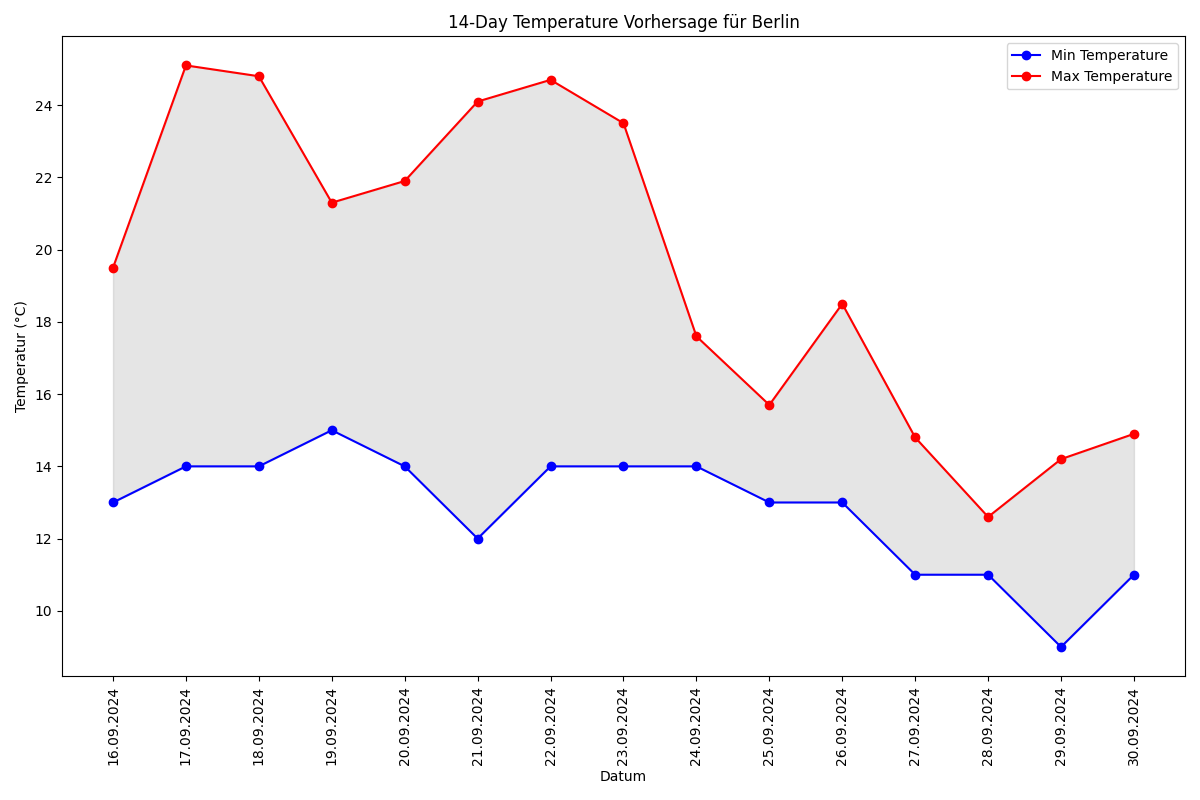
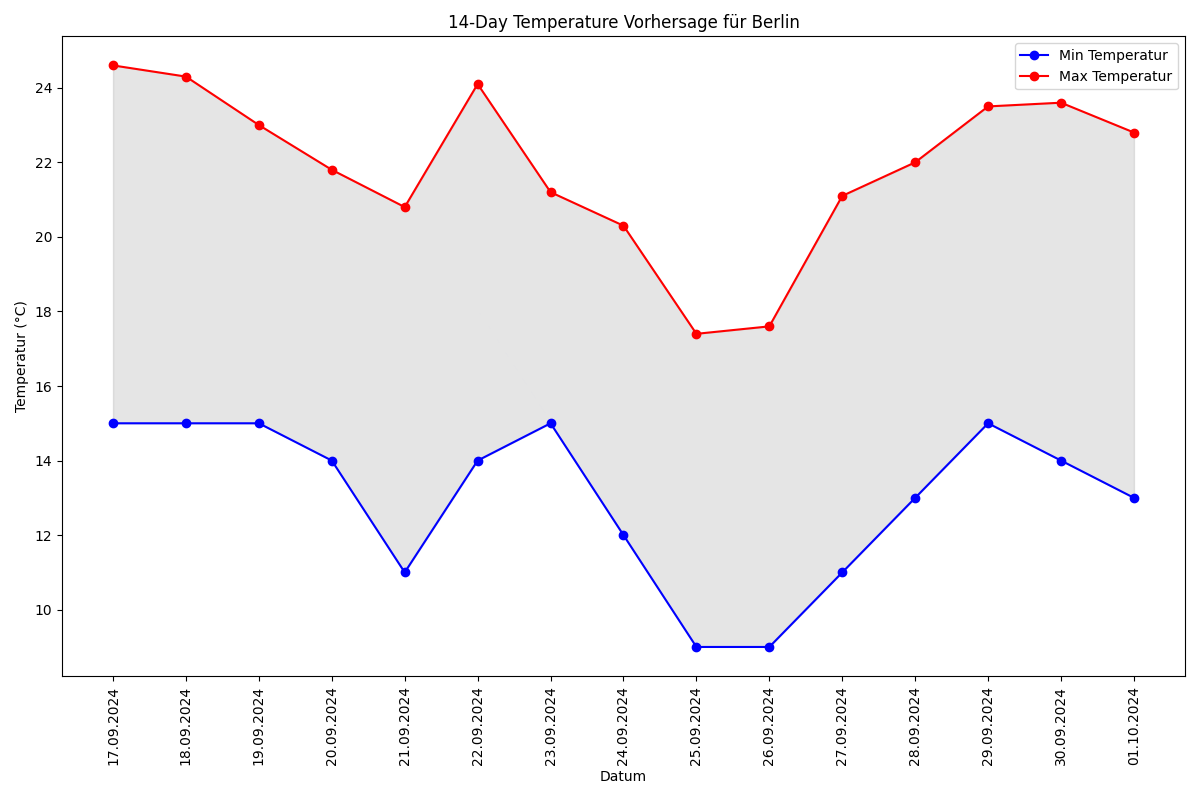
function to create a .env file if exe is running the first time and after that use the env-file to run the application in a frozen system

diff --git a/index.html b/index.html
@@ -7,65 +7,65 @@
         </head>
         <body>
             <h1>14-Day Weather Forecast for Berlin</h1>
-            <pre>Datum: 16.09.2024 
-Min-Temp: 13.0°C, Max-Temp: 19.5°C 
-Regenwahrscheinlichkeit: 3.603%, Windgeschwindigkeit: 27.7 km/h
-
-Datum: 17.09.2024 
-Min-Temp: 14.4°C, Max-Temp: 25.1°C 
-Regenwahrscheinlichkeit: 0.0%, Windgeschwindigkeit: 13.3 km/h
+            <pre>Datum: 17.09.2024 
+Min-Temp: 15.0°C, Max-Temp: 24.6°C 
+Regenwahrscheinlichkeit: 0.0%, Windgeschwindigkeit: 20.5 km/h
 
 Datum: 18.09.2024 
-Min-Temp: 14.4°C, Max-Temp: 24.8°C 
-Regenwahrscheinlichkeit: 0.0%, Windgeschwindigkeit: 13.0 km/h
-
-Datum: 19.09.2024 
-Min-Temp: 15.4°C, Max-Temp: 21.3°C 
-Regenwahrscheinlichkeit: 0.1%, Windgeschwindigkeit: 13.7 km/h
-
-Datum: 20.09.2024 
-Min-Temp: 14.6°C, Max-Temp: 21.9°C 
-Regenwahrscheinlichkeit: 0.0%, Windgeschwindigkeit: 15.1 km/h
-
-Datum: 21.09.2024 
-Min-Temp: 12.5°C, Max-Temp: 24.1°C 
-Regenwahrscheinlichkeit: 0.0%, Windgeschwindigkeit: 17.6 km/h
-
-Datum: 22.09.2024 
-Min-Temp: 14.6°C, Max-Temp: 24.7°C 
-Regenwahrscheinlichkeit: 0.0%, Windgeschwindigkeit: 16.2 km/h
-
-Datum: 23.09.2024 
-Min-Temp: 14.8°C, Max-Temp: 23.5°C 
+Min-Temp: 15.2°C, Max-Temp: 24.3°C 
 Regenwahrscheinlichkeit: 0.0%, Windgeschwindigkeit: 11.5 km/h
 
+Datum: 19.09.2024 
+Min-Temp: 15.5°C, Max-Temp: 23.0°C 
+Regenwahrscheinlichkeit: 0.0%, Windgeschwindigkeit: 12.2 km/h
+
+Datum: 20.09.2024 
+Min-Temp: 14.3°C, Max-Temp: 21.8°C 
+Regenwahrscheinlichkeit: 0.0%, Windgeschwindigkeit: 14.4 km/h
+
+Datum: 21.09.2024 
+Min-Temp: 11.8°C, Max-Temp: 20.8°C 
+Regenwahrscheinlichkeit: 0.0%, Windgeschwindigkeit: 10.1 km/h
+
+Datum: 22.09.2024 
+Min-Temp: 14.7°C, Max-Temp: 24.1°C 
+Regenwahrscheinlichkeit: 0.0%, Windgeschwindigkeit: 12.6 km/h
+
+Datum: 23.09.2024 
+Min-Temp: 15.2°C, Max-Temp: 21.2°C 
+Regenwahrscheinlichkeit: 0.4%, Windgeschwindigkeit: 8.3 km/h
+
 Datum: 24.09.2024 
-Min-Temp: 14.6°C, Max-Temp: 17.6°C 
-Regenwahrscheinlichkeit: 2.5%, Windgeschwindigkeit: 15.8 km/h
+Min-Temp: 12.1°C, Max-Temp: 20.3°C 
+Regenwahrscheinlichkeit: 1.1%, Windgeschwindigkeit: 23.0 km/h
 
 Datum: 25.09.2024 
-Min-Temp: 13.3°C, Max-Temp: 15.7°C 
-Regenwahrscheinlichkeit: 5.6%, Windgeschwindigkeit: 27.4 km/h
+Min-Temp: 9.5°C, Max-Temp: 17.4°C 
+Regenwahrscheinlichkeit: 0.0%, Windgeschwindigkeit: 20.9 km/h
 
 Datum: 26.09.2024 
-Min-Temp: 13.8°C, Max-Temp: 18.5°C 
-Regenwahrscheinlichkeit: 1.0%, Windgeschwindigkeit: 32.0 km/h
+Min-Temp: 9.8°C, Max-Temp: 17.6°C 
+Regenwahrscheinlichkeit: 0.0%, Windgeschwindigkeit: 10.1 km/h
 
 Datum: 27.09.2024 
-Min-Temp: 11.6°C, Max-Temp: 14.8°C 
-Regenwahrscheinlichkeit: 2.4%, Windgeschwindigkeit: 26.9 km/h
+Min-Temp: 11.2°C, Max-Temp: 21.1°C 
+Regenwahrscheinlichkeit: 0.0%, Windgeschwindigkeit: 8.6 km/h
 
 Datum: 28.09.2024 
-Min-Temp: 11.1°C, Max-Temp: 12.6°C 
-Regenwahrscheinlichkeit: 6.0%, Windgeschwindigkeit: 20.8 km/h
+Min-Temp: 13.4°C, Max-Temp: 22.0°C 
+Regenwahrscheinlichkeit: 0.0%, Windgeschwindigkeit: 6.8 km/h
 
 Datum: 29.09.2024 
-Min-Temp: 9.7°C, Max-Temp: 14.2°C 
-Regenwahrscheinlichkeit: 3.6%, Windgeschwindigkeit: 21.6 km/h
+Min-Temp: 15.4°C, Max-Temp: 23.5°C 
+Regenwahrscheinlichkeit: 0.0%, Windgeschwindigkeit: 14.8 km/h
 
 Datum: 30.09.2024 
-Min-Temp: 11.4°C, Max-Temp: 14.9°C 
-Regenwahrscheinlichkeit: 6.7%, Windgeschwindigkeit: 35.6 km/h
+Min-Temp: 14.2°C, Max-Temp: 23.6°C 
+Regenwahrscheinlichkeit: 0.0%, Windgeschwindigkeit: 19.1 km/h
+
+Datum: 01.10.2024 
+Min-Temp: 13.4°C, Max-Temp: 22.8°C 
+Regenwahrscheinlichkeit: 0.0%, Windgeschwindigkeit: 16.9 km/h
 
 </pre>
             <h2>Temperature Chart</h2>

diff --git a/main.py b/main.py
@@ -1,5 +1,6 @@
 import os
 import sys
+from dotenv import load_dotenv
 
 def main():
     # Import within the function to avoid unnecessary imports if config.py does not exist
@@ -13,31 +14,72 @@ def main():
     if not location:
         location = 'Berlin'
 
-    # Enter the recipient's email address or leave empty if you dont want to send an email
-    mail_to= input ("Enter your Email (press Enter if you dont want to send an email): ")
-   
+    # Enter the recipient's email address or leave empty if you don't want to send an email
+    mail_to = input("Enter your Email (press Enter if you don't want to send an email): ")
+
     # Start the function to fetch the weather forecast for the specified location
     forecast = get_weather_forecast(location)
     temperatur_chart = create_temperatur_chart(forecast, location)
-    
+
     # Save/Display data in 3 different ways
-    save_forecast_as_html(forecast, location, temperatur_chart) # Save forecast in an HTML-file
-    print(f'14-Tage Wettervorhersage für {location} \n {forecast}') # Print forecast in the console
+    save_forecast_as_html(forecast, location, temperatur_chart)  # Save forecast in an HTML file
+    print(f'14-Tage Wettervorhersage für {location} \n {forecast}')  # Print forecast in the console
 
     if mail_to and '@' in mail_to:
-        send_forecast_email(forecast, location, mail_to, temperatur_chart) # Send forecast as an e-mail
+        send_forecast_email(forecast, location, mail_to, temperatur_chart)  # Send forecast as an e-mail
+
+
+def load_env_variables():
+    """
+    Load environment variables either from .env or directly from environment variables.
+    """
+    # Path where the .env file should be
+    exe_dir = os.path.dirname(sys.executable) if getattr(sys, 'frozen', False) else os.getcwd()
+    env_file_path = os.path.join(exe_dir, '.env')
+
+    # Load environment variables from the .env file
+    if os.path.exists(env_file_path):
+        load_dotenv(env_file_path)
+
+    # Fetch the environment variables
+    WEATHER_API_KEY = os.getenv('WEATHER_API_KEY')
+    EMAIL_FROM = os.getenv('EMAIL_FROM')
+    APP_PASSWORD = os.getenv('APP_PASSWORD')
+
+    return WEATHER_API_KEY, EMAIL_FROM, APP_PASSWORD
+
+
+def prompt_and_save_env_variables():
+    """
+    Prompt user for missing environment variables and save them in a .env file.
+    """
+    exe_dir = os.path.dirname(sys.executable) if getattr(sys, 'frozen', False) else os.getcwd()
+    env_file_path = os.path.join(exe_dir, '.env')
+
+    # Prompt for missing environment variables
+    WEATHER_API_KEY = input("Enter your WEATHER_API_KEY: ")
+    EMAIL_FROM = input("Enter your EMAIL_FROM (e.g., your_email@example.com): ")
+    APP_PASSWORD = input("Enter your APP_PASSWORD: ")
+
+    # Save the environment variables to a .env file
+    with open(env_file_path, 'w') as env_file:
+        env_file.write(f"WEATHER_API_KEY={WEATHER_API_KEY}\n")
+        env_file.write(f"EMAIL_FROM={EMAIL_FROM}\n")
+        env_file.write(f"APP_PASSWORD={APP_PASSWORD}\n")
+
+    print(f"Environment variables saved in '{env_file_path}'. Please restart the application.")
 
 if __name__ == "__main__":
 # Check if running in a frozen environment
     if getattr(sys, 'frozen', False):
-       # Get environment variables in frozen environment
-       WEATHER_API_KEY = os.environ.get('WEATHER_API_KEY', None)
-       EMAIL_FROM = os.environ.get('EMAIL_FROM', None)
-       APP_PASSWORD = os.environ.get('APP_PASSWORD', None)
+        # Load environment variables
+        WEATHER_API_KEY, EMAIL_FROM, APP_PASSWORD = load_env_variables()
 
-       if not WEATHER_API_KEY or not EMAIL_FROM or not APP_PASSWORD:
-           print("Error: Missing at least one environment variable")
-           sys.exit(1) # If missing some variable, exit the function
+        # If any of the environment variables are missing, prompt the user to enter them and save them
+        if not WEATHER_API_KEY or not EMAIL_FROM or not APP_PASSWORD:
+            print("Environment variables are missing. Please enter the following:")
+            prompt_and_save_env_variables()
+            sys.exit(1)  # Exit after saving environment variables for restart
     else: 
         # Path to the configuration file
         config_file_path = 'config.py'
